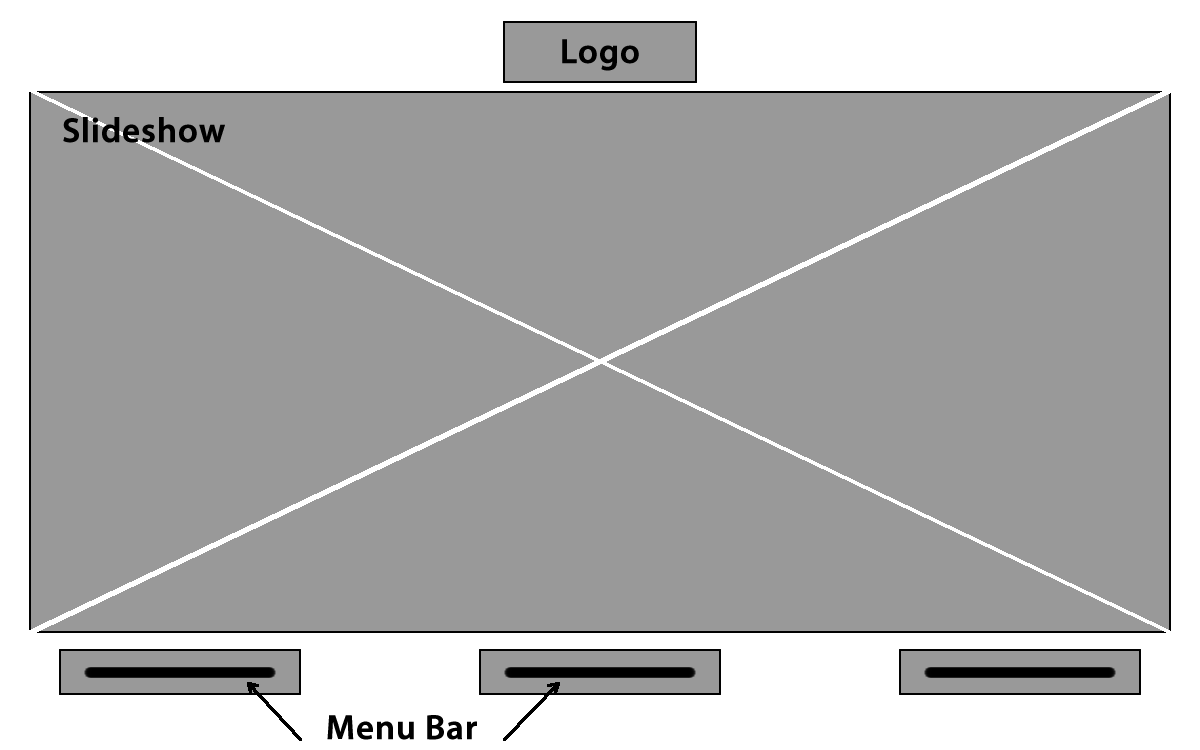
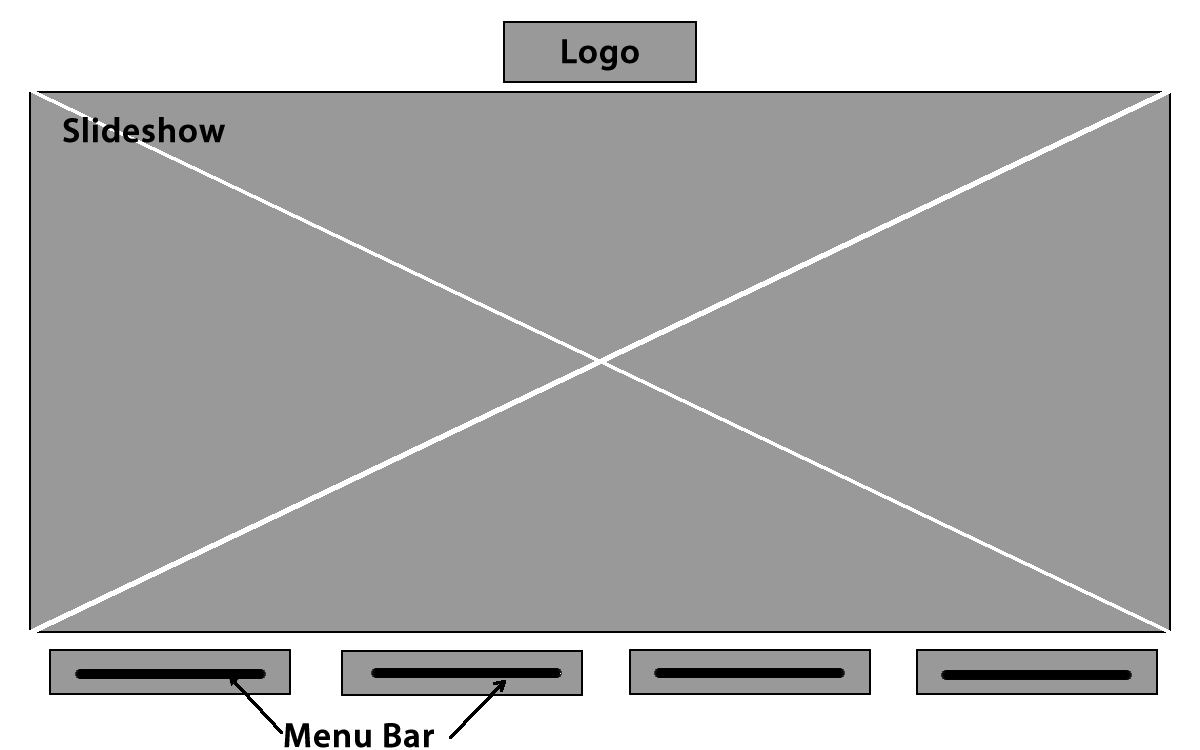
Images

Changed region(s): [[0.0308, 0.8587, 0.9867, 1.0]]

diff --git a/index.html b/index.html
@@ -83,9 +83,12 @@
       <p>
         After finding the objectives and purpose, we came up with a flow chart of the pages that we will have on our website.
         <img src="./Website_Flowchart.png"/>
+        We chose to use this flowchart because it is simple and does not require a lot of clicks at all to get to a target page. There are also enough pages for the client to reference from this demo to make their own site.
       </p>
       <p>
-        We then created a few ideas of the homepage. We referenced a lot from other websites. 
+        We then created a few ideas of the homepage. We referenced a lot from other websites. We made wireframes to give the client an idea of the layout of the website and where the content goes.
+        <img src="./Wireframe1.png"/>
+        <img src="./Wireframe2.png"/>
       </p>
 
   </body>
